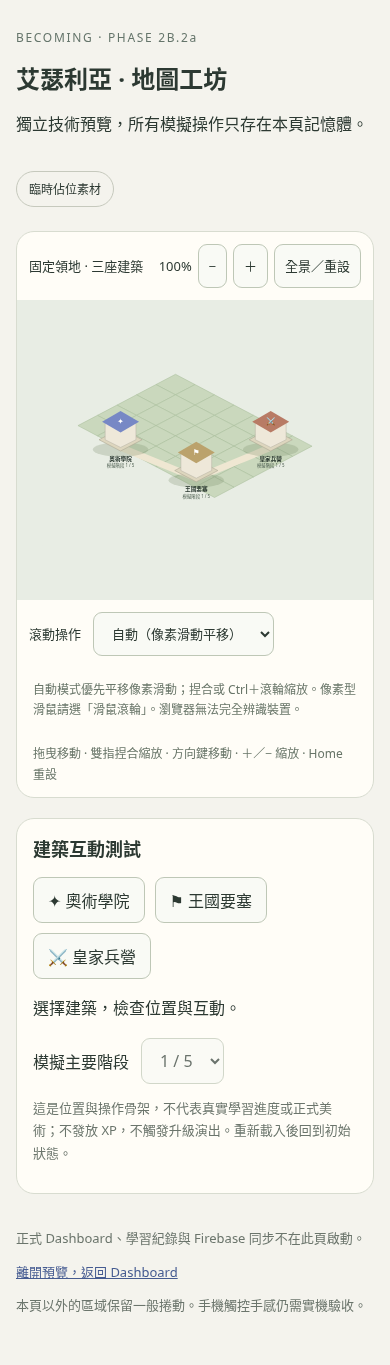
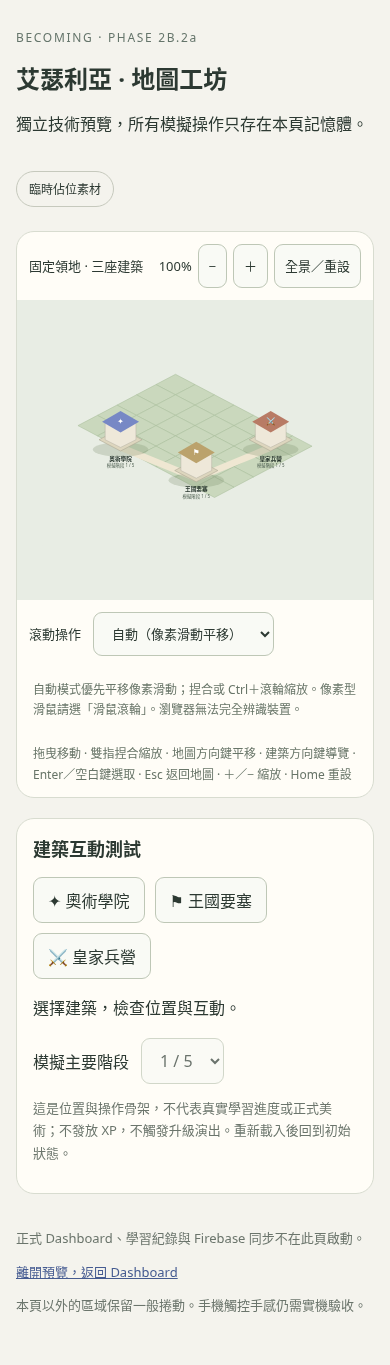
fix: 完成地圖與建築的空間鍵盤導覽

diff --git a/tests/browser/kingdom-map.spec.js b/tests/browser/kingdom-map.spec.js
@@ -99,3 +99,12 @@ test('觸控板捏合靈敏度提高為 1.5 倍，普通滾輪與按鈕速度不
  await page.getByRole('button',{name:'全景／重設'}).click();await page.locator('[data-wheel-mode]').selectOption('zoom');await map.dispatchEvent('wheel',{deltaMode:0,deltaY:-50,ctrlKey:false});await expect(page.locator('[data-zoom]')).toHaveText('111%');
  await page.getByRole('button',{name:'全景／重設'}).click();await page.getByRole('button',{name:'放大',exact:true}).click();await expect(page.locator('[data-zoom]')).toHaveText('120%');
 });
+
+test('地圖平移與建築空間導覽分開，選取、Esc、Tab 及焦點提示相容',async({page})=>{
+ await page.setViewportSize({width:1440,height:1000});await ready(page);const map=page.locator('[data-map]'),scene=page.locator('[data-scene]'),academy=page.locator('[data-building=academy]'),keep=page.locator('[data-building=keep]'),barracks=page.locator('[data-building=barracks]');
+ await page.getByRole('button',{name:'放大',exact:true}).click();await page.getByRole('button',{name:'放大',exact:true}).click();await map.focus();const initial=await scene.getAttribute('transform');await page.keyboard.press('ArrowRight');await expect(scene).not.toHaveAttribute('transform',initial);const outline=await map.evaluate(el=>getComputedStyle(el).outlineStyle);await page.keyboard.press('ArrowRight');expect(await map.evaluate(el=>getComputedStyle(el).outlineStyle)).toBe(outline);
+ await page.getByRole('button',{name:'全景／重設'}).click();await academy.focus();const before=await scene.getAttribute('transform');await page.keyboard.press('ArrowLeft');await expect(academy).toBeFocused();await page.keyboard.press('ArrowRight');await expect(keep).toBeFocused();await page.keyboard.press('ArrowRight');await expect(barracks).toBeFocused();await page.keyboard.press('ArrowRight');await expect(barracks).toBeFocused();await expect(scene).toHaveAttribute('transform',before);await expect(page.locator('[data-stage]')).toBeDisabled();
+ await page.keyboard.press('Enter');await expect(barracks).toHaveAttribute('aria-pressed','true');await page.keyboard.press('ArrowLeft');await expect(keep).toBeFocused();await expect(barracks).toHaveAttribute('aria-pressed','true');await expect(keep).toHaveAttribute('aria-pressed','false');await page.keyboard.press('ArrowDown');await expect(keep).toBeFocused();await page.keyboard.press('Space');await expect(keep).toHaveAttribute('aria-pressed','true');await page.keyboard.press('Escape');await expect(map).toBeFocused();expect(await map.evaluate(el=>getComputedStyle(el).outlineStyle)).toBe('solid');
+ await page.keyboard.press('Tab');await expect(academy).toBeFocused();await page.keyboard.press('Shift+Tab');await expect(map).toBeFocused();await page.keyboard.press('Shift+Tab');await expect(page.getByRole('button',{name:'全景／重設'})).toBeFocused();await page.keyboard.press('Tab');await expect(map).toBeFocused();await page.keyboard.press('Tab');await expect(academy).toBeFocused();await page.keyboard.press('ArrowDown');await expect(keep).toBeFocused();
+ await page.locator('[data-wheel-mode]').focus();await page.keyboard.press('ArrowDown');await expect(page.locator('[data-wheel-mode]')).toHaveValue('zoom');await expect(scene).toHaveAttribute('transform',before);
+});

diff --git a/tests/kingdom-map.test.js b/tests/kingdom-map.test.js
@@ -1,6 +1,6 @@
 import test from 'node:test';
 import assert from 'node:assert/strict';
-import {fitCamera,fitScale,constrainCamera,zoomCamera,worldPoint,createCamera} from '../kingdom-map-core.js';
+import {fitCamera,fitScale,constrainCamera,zoomCamera,worldPoint,createCamera,directionalBuilding} from '../kingdom-map-core.js';
 import {createPreviewState} from '../kingdom-preview-state.js';
 import {BUILDING_MANIFEST,WORLD} from '../kingdom-building-manifest.js';
 import {bindMapInput,wheelIntent} from '../kingdom-map-input.js';
@@ -51,4 +51,14 @@ test('wheel 使用事件語意與明確 fallback，不推測所有實體裝置',
  send(surface,'wheel',{deltaY:-30,deltaMode:0,ctrlKey:true});assert.ok(calls.pop()[1]>1);
  send(surface,'wheel',{deltaY:3,deltaMode:1});assert.ok(calls.pop()[1]<1);
  mode='zoom';send(surface,'wheel',{deltaY:20,deltaMode:0});assert.equal(calls.pop()[0],'zoom');mode='pan';send(surface,'wheel',{deltaY:1,deltaMode:1});assert.deepEqual(calls.pop(),['pan',{x:-0,y:-16}]);input.dispose();
+});
+test('建築方向導覽依世界座標，排序改變仍一致，邊界不跳相反方向',()=>{
+ for(const buildings of [BUILDING_MANIFEST,[...BUILDING_MANIFEST].reverse()]){
+  assert.equal(directionalBuilding(buildings,'academy','ArrowRight'),'keep');assert.equal(directionalBuilding(buildings,'academy','ArrowDown'),'keep');assert.equal(directionalBuilding(buildings,'keep','ArrowLeft'),'academy');assert.equal(directionalBuilding(buildings,'keep','ArrowRight'),'barracks');assert.equal(directionalBuilding(buildings,'barracks','ArrowLeft'),'keep');assert.equal(directionalBuilding(buildings,'academy','ArrowLeft'),null);assert.equal(directionalBuilding(buildings,'keep','ArrowDown'),null);
+ }
+ assert.equal(directionalBuilding([{id:'a',x:0,y:0},{id:'b',x:1,y:100}],'a','ArrowRight'),null);
+});
+test('建築方向鍵僅移動焦點，Enter／Space 才選取，Esc 返回地圖且 Tab 原生',()=>{
+ const surface=new Surface(),calls=[];surface.focus=()=>calls.push('map-focus');surface.closest=()=>({dataset:{building:'academy'}});const input=bindMapInput(surface,{pan:()=>calls.push('pan'),zoom:()=>{},reset:()=>{},select:id=>calls.push('select:'+id),navigate:(id,key)=>calls.push(id+':'+key)});
+ assert.equal(send(surface,'keydown',{key:'ArrowRight'}).defaultPrevented,true);assert.deepEqual(calls,['academy:ArrowRight']);send(surface,'keydown',{key:'Enter'});send(surface,'keydown',{key:' '});send(surface,'keydown',{key:'Escape'});assert.deepEqual(calls,['academy:ArrowRight','select:academy','select:academy','map-focus']);assert.equal(send(surface,'keydown',{key:'Tab'}).defaultPrevented,false);delete surface.closest;send(surface,'keydown',{key:'ArrowRight'});assert.equal(calls.at(-1),'pan');assert.equal(send(surface,'keydown',{key:'Escape'}).defaultPrevented,false);input.dispose();
 });

diff --git a/kingdom-map-input.js b/kingdom-map-input.js
@@ -5,7 +5,7 @@ export function wheelIntent(event,mode='auto'){
  if(mode==='zoom'||mode==='pan')return mode;
  return event.deltaMode===1||event.deltaMode===2?'zoom':'pan';
 }
-export function bindMapInput(surface,{pan,zoom,reset,select,wheelMode=()=> 'auto'}){
+export function bindMapInput(surface,{pan,zoom,reset,select,wheelMode=()=> 'auto',navigate=()=>{}}){
  const listeners=[],pointers=new Map();let gesture=null,disposed=false;
  const listen=(type,fn,options)=>{surface.addEventListener(type,fn,options);listeners.push(()=>surface.removeEventListener(type,fn,options));};
  const local=event=>{const r=surface.getBoundingClientRect();return {x:event.clientX-r.left,y:event.clientY-r.top};};
@@ -14,7 +14,8 @@ export function bindMapInput(surface,{pan,zoom,reset,select,wheelMode=()=> 'auto
  listen('pointerdown',event=>{
   if(event.pointerType==='mouse'&&event.button!==0||pointers.size>=2)return;
   // 阻止滑鼠啟動原生選取，同時明確保留建築與地圖的鍵盤焦點。
-  if(event.pointerType==='mouse'){event.preventDefault();(event.target.closest?.('[data-building]')||surface).focus?.({preventScroll:true});surface.setAttribute?.('data-pointer-focus','');}
+  if(event.pointerType==='mouse'){event.preventDefault();(event.target.closest?.('[data-building]')||surface).focus?.({preventScroll:true});}
+  surface.setAttribute?.('data-pointer-focus','');
   const point=local(event);pointers.set(event.pointerId,point);surface.setPointerCapture?.(event.pointerId);
   if(pointers.size===1)gesture={start:point,last:point,dragged:false,building:event.target.closest?.('[data-building]')?.dataset.building};
   else gesture={pinch:true,previous:pair(),dragged:true};
@@ -48,7 +49,8 @@ export function bindMapInput(surface,{pan,zoom,reset,select,wheelMode=()=> 'auto
   const id=event.target.closest?.('[data-building]')?.dataset.building;
   if(id&&['Enter',' '].includes(event.key)){event.preventDefault();select(id);return;}
   const moves={ArrowLeft:{x:40,y:0},ArrowRight:{x:-40,y:0},ArrowUp:{x:0,y:40},ArrowDown:{x:0,y:-40}};
-  if(moves[event.key]){event.preventDefault();pan(moves[event.key]);}
+  if(id&&event.key==='Escape'){event.preventDefault();surface.focus?.({preventScroll:true});return;}
+  if(moves[event.key]){event.preventDefault();if(id)navigate(id,event.key);else pan(moves[event.key]);}
   else if(['+','=','-','0','Home'].includes(event.key)){event.preventDefault();if(['0','Home'].includes(event.key))reset();else zoom(event.key==='-'?1/1.2:1.2,{x:surface.clientWidth/2,y:surface.clientHeight/2});}
  });
  return {dispose(){if(disposed)return;disposed=true;for(const remove of listeners)remove();clear();surface.removeAttribute?.('data-pointer-focus');}};

diff --git a/kingdom-preview.js b/kingdom-preview.js
@@ -1,6 +1,6 @@
 import {WORLD,BUILDING_MANIFEST} from './kingdom-building-manifest.js';
 import {createPreviewState} from './kingdom-preview-state.js';
-import {createCamera,fitScale} from './kingdom-map-core.js';
+import {createCamera,fitScale,directionalBuilding} from './kingdom-map-core.js';
 import {createMapRenderer} from './kingdom-map-renderer.js';
 import {bindMapInput} from './kingdom-map-input.js';
 export function mountPreview(root){
@@ -10,7 +10,8 @@ export function mountPreview(root){
  function render(){const snapshot=state.read();renderer.update(snapshot);const b=snapshot.buildings.find(b=>b.id===snapshot.selected);stage.disabled=!b;stage.value=String(b?.stage||1);status.textContent=b?`${b.title} · ${b.role} · 模擬階段 ${b.stage} / 5`:'選擇建築，檢查位置與互動。';root.querySelectorAll('[data-select]').forEach(button=>button.setAttribute('aria-pressed',String(button.dataset.select===snapshot.selected)));}
  function select(id){state.select(id);render();}
  const reset=()=>{camera.reset();draw();},zoom=(factor,point)=>{camera.zoom(factor,point);draw();},pan=delta=>{camera.pan(delta);draw();};
- const input=bindMapInput(svg,{reset,zoom,pan,select,wheelMode:()=>root.querySelector('[data-wheel-mode]').value});
+ const navigate=(id,key)=>{const target=directionalBuilding(BUILDING_MANIFEST,id,key);if(target)renderer.focusBuilding(target);};
+ const input=bindMapInput(svg,{reset,zoom,pan,select,navigate,wheelMode:()=>root.querySelector('[data-wheel-mode]').value});
  root.querySelectorAll('[data-select]').forEach(button=>button.addEventListener('click',()=>select(button.dataset.select),{signal:controller.signal}));
  root.querySelector('[data-reset]').addEventListener('click',reset,{signal:controller.signal});
  for(const button of root.querySelectorAll('[data-zoom-factor]'))button.addEventListener('click',()=>zoom(Number(button.dataset.zoomFactor),{x:svg.clientWidth/2,y:svg.clientHeight/2}),{signal:controller.signal});

diff --git a/kingdom-preview.html b/kingdom-preview.html
@@ -8,7 +8,7 @@
   <svg data-map role="group" aria-label="可拖曳與縮放的王國地圖" tabindex="0"></svg>
   <div class="toolbar"><label>滾動操作 <select data-wheel-mode aria-describedby="wheel-help"><option value="auto">自動（像素滑動平移）</option><option value="zoom">滑鼠滾輪（縮放）</option><option value="pan">觸控板滑動（平移）</option></select></label></div>
   <p class="map-hint" id="wheel-help">自動模式優先平移像素滑動；捏合或 Ctrl＋滾輪縮放。像素型滑鼠請選「滑鼠滾輪」。瀏覽器無法完全辨識裝置。</p>
-  <p class="map-hint">拖曳移動 · 雙指捏合縮放 · 方向鍵移動 · ＋／− 縮放 · Home 重設</p>
+  <p class="map-hint">拖曳移動 · 雙指捏合縮放 · 地圖方向鍵平移 · 建築方向鍵導覽 · Enter／空白鍵選取 · Esc 返回地圖 · ＋／− 縮放 · Home 重設</p>
  </section>
  <section class="preview-controls" aria-label="記憶體模擬"><h2>建築互動測試</h2><div class="building-choices"><button data-select="academy" aria-pressed="false">✦ 奧術學院</button><button data-select="keep" aria-pressed="false">⚑ 王國要塞</button><button data-select="barracks" aria-pressed="false">⚔ 皇家兵營</button></div><p data-status role="status"></p><label>模擬主要階段 <select data-stage disabled><option value="1">1 / 5</option><option value="2">2 / 5</option><option value="3">3 / 5</option><option value="4">4 / 5</option><option value="5">5 / 5</option></select></label><p class="note">這是位置與操作骨架，不代表真實學習進度或正式美術；不發放 XP，不觸發升級演出。重新載入後回到初始狀態。</p></section>
  <footer><p>正式 Dashboard、學習紀錄與 Firebase 同步不在此頁啟動。</p><a href="./">離開預覽，返回 Dashboard</a><p>本頁以外的區域保留一般捲動。手機觸控手感仍需實機驗收。</p></footer>

diff --git a/kingdom-map-renderer.js b/kingdom-map-renderer.js
@@ -15,5 +15,5 @@ export function createMapRenderer(svg,world,manifest){
   g.append(label,stage);scene.append(g);nodes.set(b.id,{g,stage});
  }
  svg.append(scene);
- return {update(snapshot){for(const b of snapshot.buildings){const item=nodes.get(b.id);if(!item)continue;item.stage.textContent=`模擬階段 ${b.stage} / 5`;item.g.setAttribute('aria-pressed',String(snapshot.selected===b.id));item.g.setAttribute('aria-label',`${b.title}，模擬階段 ${b.stage} / 5`);}},setCamera(camera){scene.setAttribute('transform',`translate(${camera.x} ${camera.y}) scale(${camera.scale})`);},dispose(){scene.remove();nodes.clear();}};
+ return {focusBuilding(id){nodes.get(id)?.g.focus({preventScroll:true});},update(snapshot){for(const b of snapshot.buildings){const item=nodes.get(b.id);if(!item)continue;item.stage.textContent=`模擬階段 ${b.stage} / 5`;item.g.setAttribute('aria-pressed',String(snapshot.selected===b.id));item.g.setAttribute('aria-label',`${b.title}，模擬階段 ${b.stage} / 5`);}},setCamera(camera){scene.setAttribute('transform',`translate(${camera.x} ${camera.y}) scale(${camera.scale})`);},dispose(){scene.remove();nodes.clear();}};
 }

diff --git a/kingdom-map-core.js b/kingdom-map-core.js
@@ -19,3 +19,10 @@ export function createCamera(initialView,world){
   return {...value};
  }};
 }
+
+// 以世界座標找方向候選；排除相反方向及近乎垂直的候選，不按 DOM 順序跳轉。
+export function directionalBuilding(buildings,currentId,key){
+ const directions={ArrowLeft:{x:-1,y:0},ArrowRight:{x:1,y:0},ArrowUp:{x:0,y:-1},ArrowDown:{x:0,y:1}},direction=directions[key],current=buildings.find(b=>b.id===currentId);
+ if(!direction||!current)return null;
+ return buildings.filter(b=>b.id!==currentId).map(b=>{const dx=b.x-current.x,dy=b.y-current.y,forward=dx*direction.x+dy*direction.y,lateral=Math.abs(dx*direction.y-dy*direction.x);return {id:b.id,forward,lateral,score:Math.hypot(dx,dy)+lateral};}).filter(b=>b.forward>0&&b.lateral<=b.forward*3).sort((a,b)=>a.score-b.score||a.id.localeCompare(b.id))[0]?.id||null;
+}
